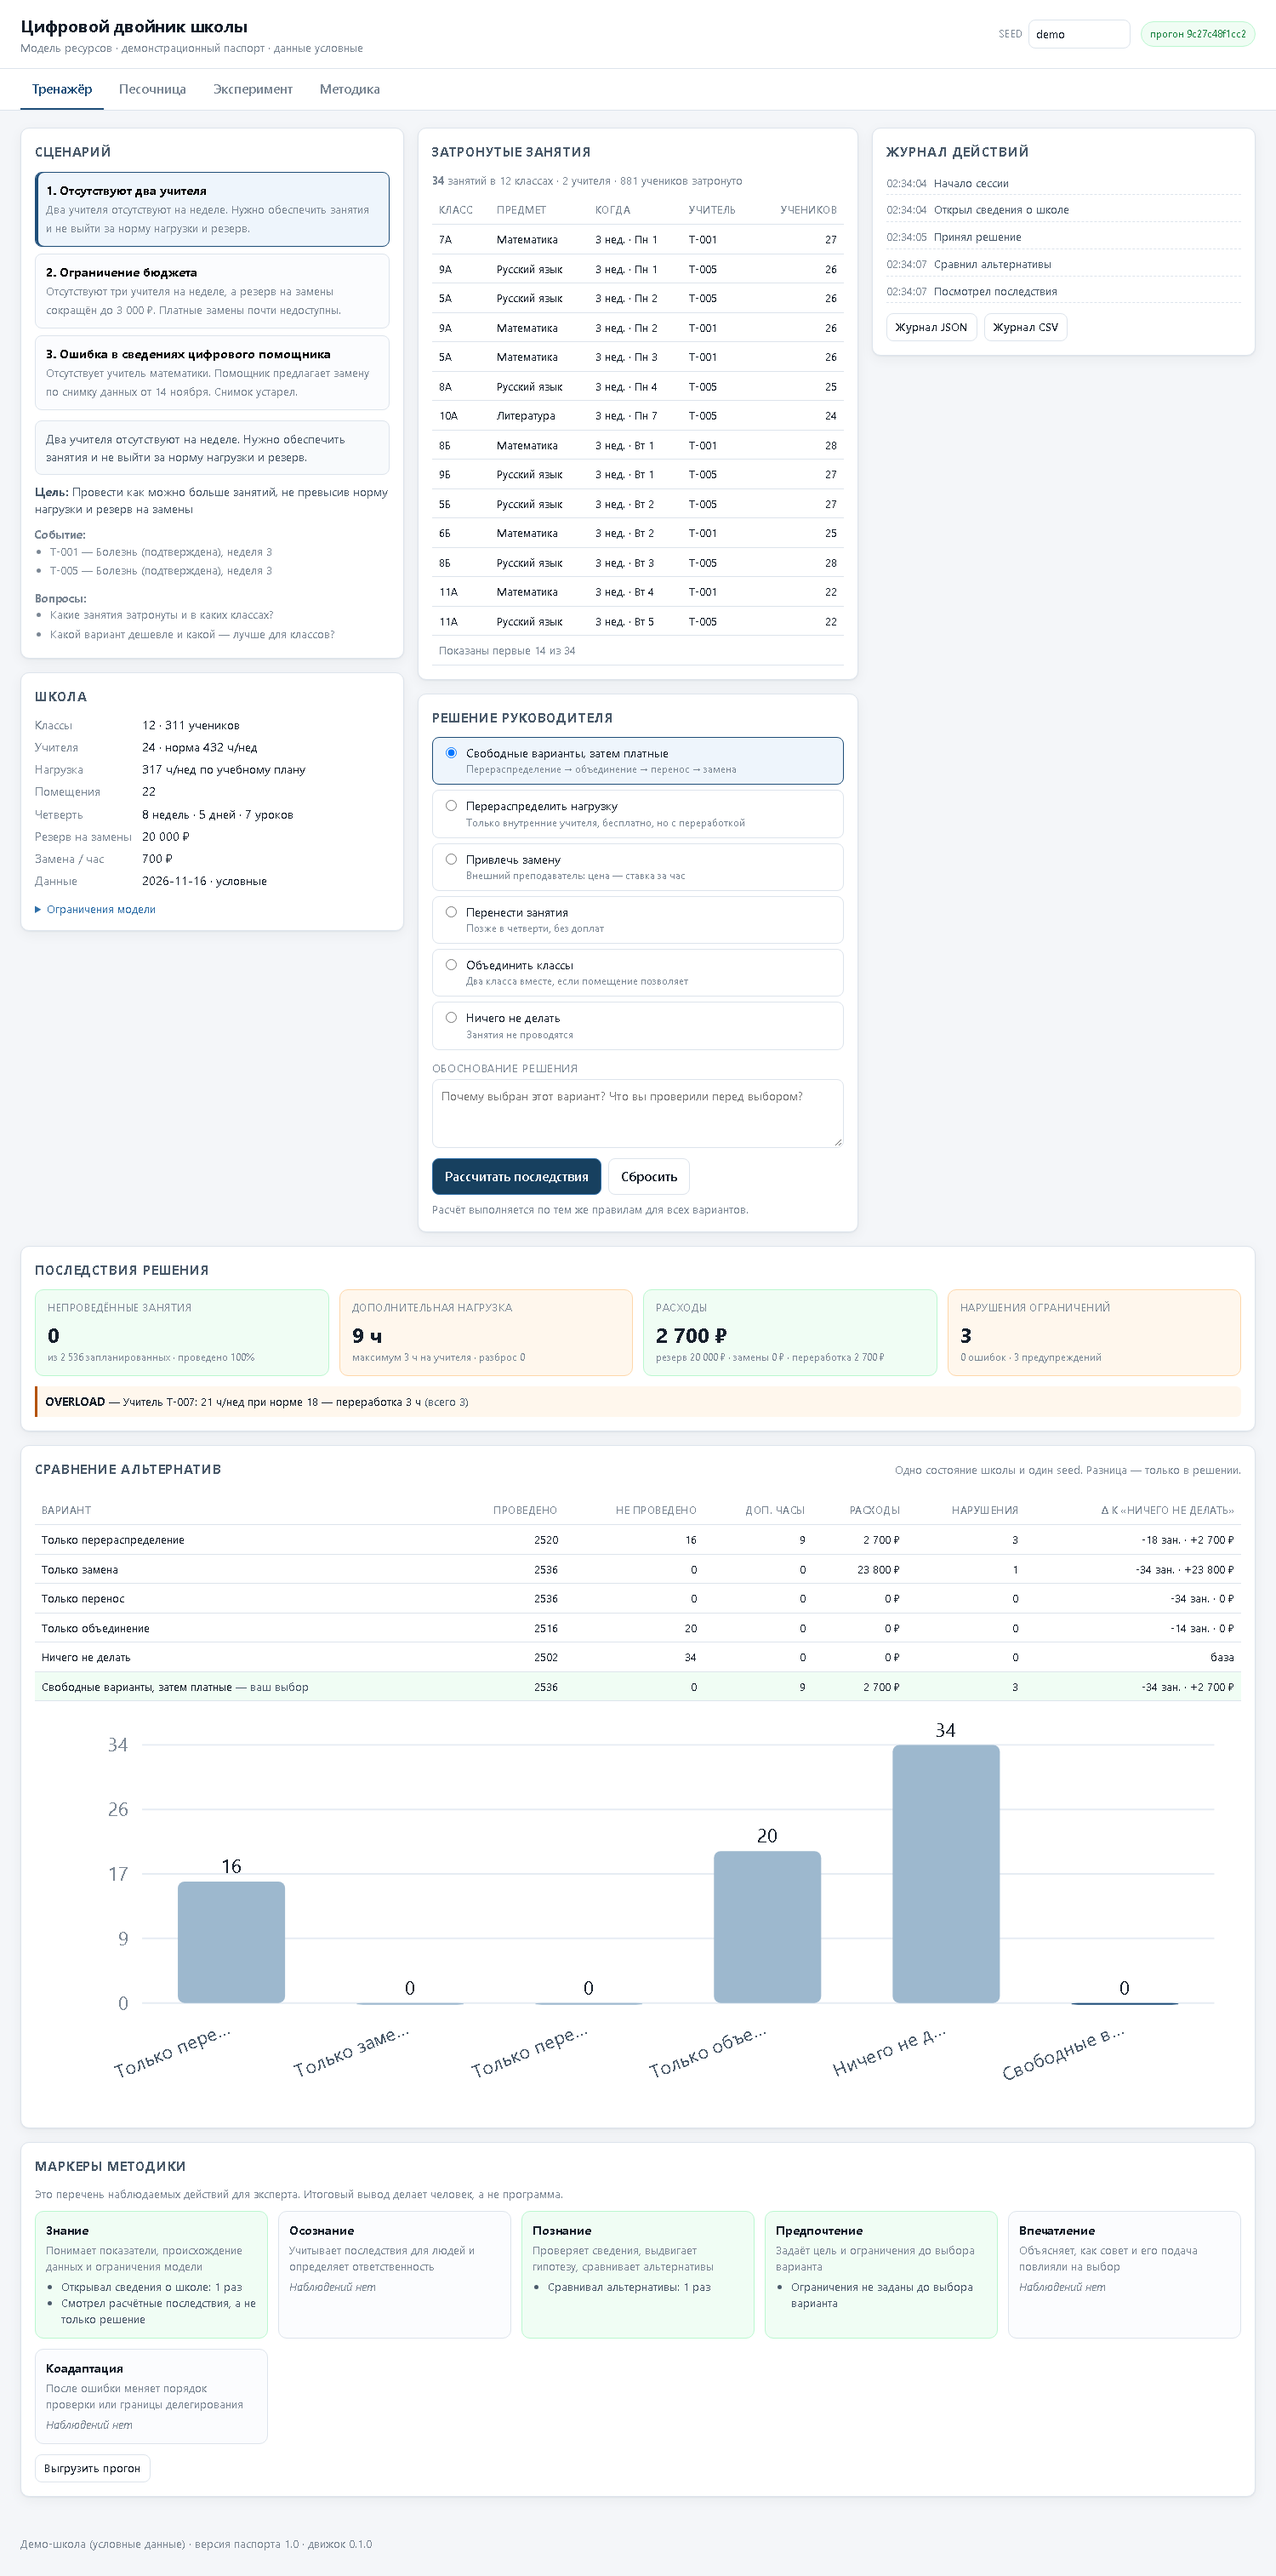
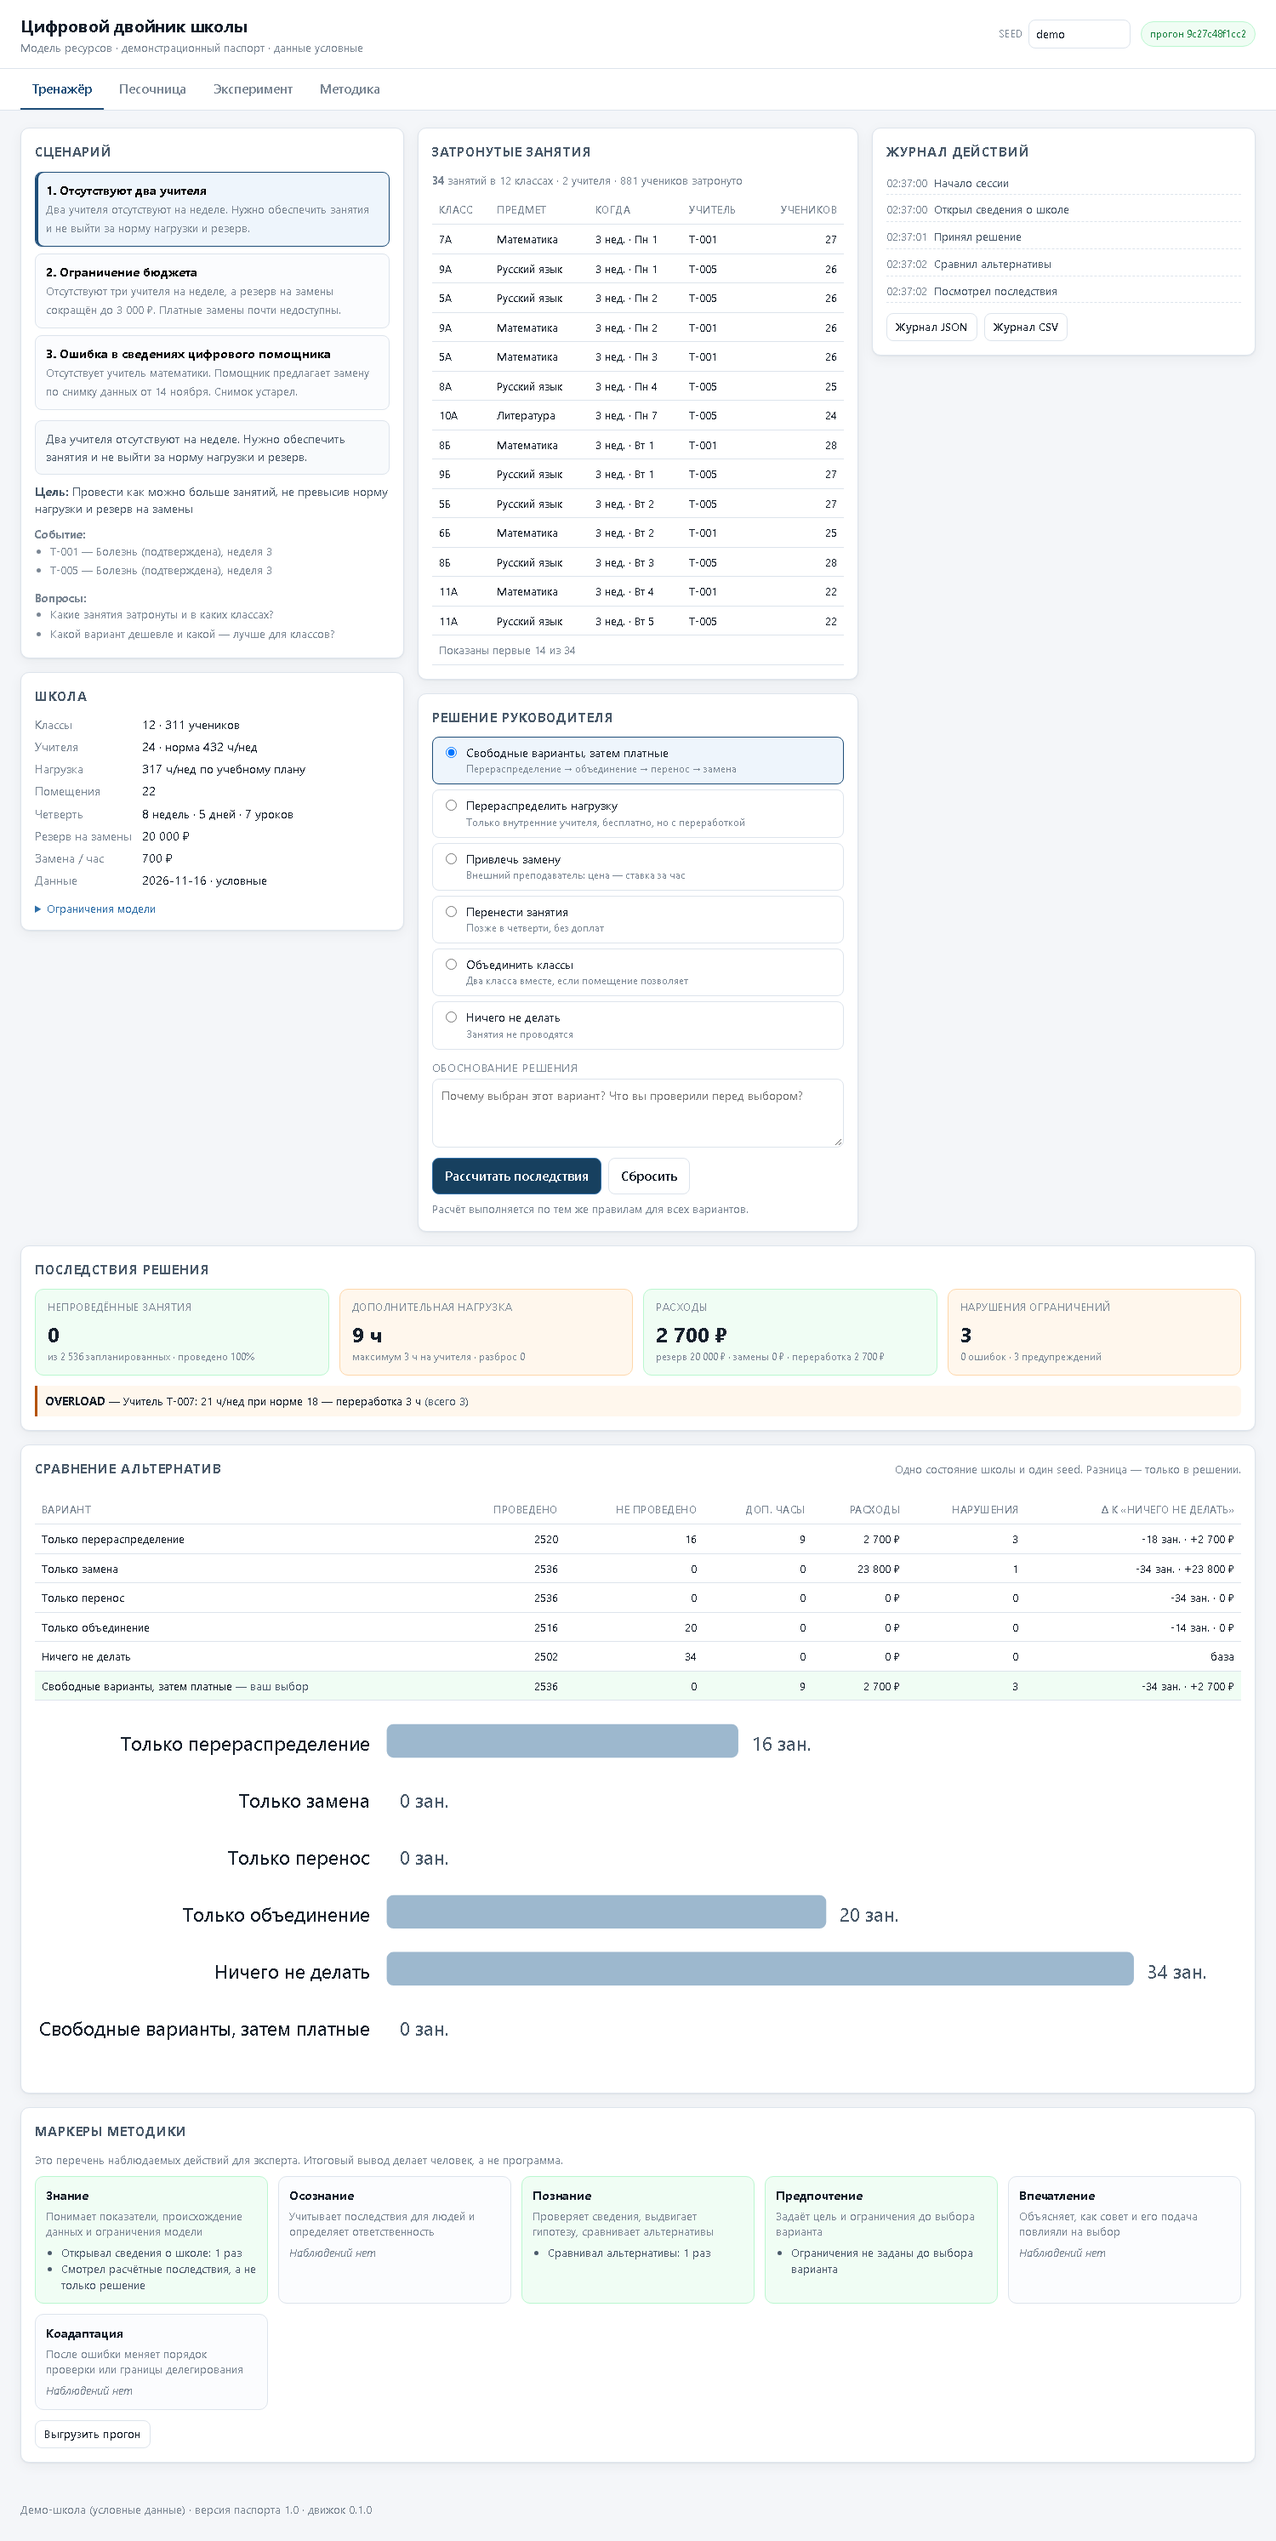
Демо: публикация одной командой и инструкция без &&

diff --git a/README.md b/README.md
@@ -37,13 +37,37 @@ node tools/make-demo-data.mjs    # паспорт школы и сценарии
 
 ## Проверки
 
-```bash
+```powershell
 node --test "tests/*.test.mjs"   # 22 теста движка и методики
 node tools/e2e.mjs               # 16 проверок интерфейса против живого сервера
 node tools/build-dist.mjs        # сборка сайта
 node tools/check-public-data.mjs # в сборке нет ФИО и реальных данных
 node tests/parity.mjs            # сверка с NetLogo (нужен results.csv)
 ```
+
+## Как обновить демо
+
+Одной командой (PowerShell, из папки проекта):
+
+```powershell
+powershell -File tools\publish.ps1 -Message "что изменилось"
+```
+
+Скрипт прогоняет тесты, собирает сайт, проверяет данные, коммитит и пушит.
+Если поднят локальный сервер — добавьте `-WithE2E`, тогда проверится и браузер.
+
+Вручную, по шагам (без `&&`: в Windows PowerShell 5.1 его нет):
+
+```powershell
+node --test "tests/*.test.mjs"
+node tools/build-dist.mjs
+node tools/check-public-data.mjs
+git add -A
+git commit -m "что изменилось"
+git push
+```
+
+Pages пересобирается сам за ~30 секунд, статус: `gh run list --limit 1`.
 
 ## Состав
 
